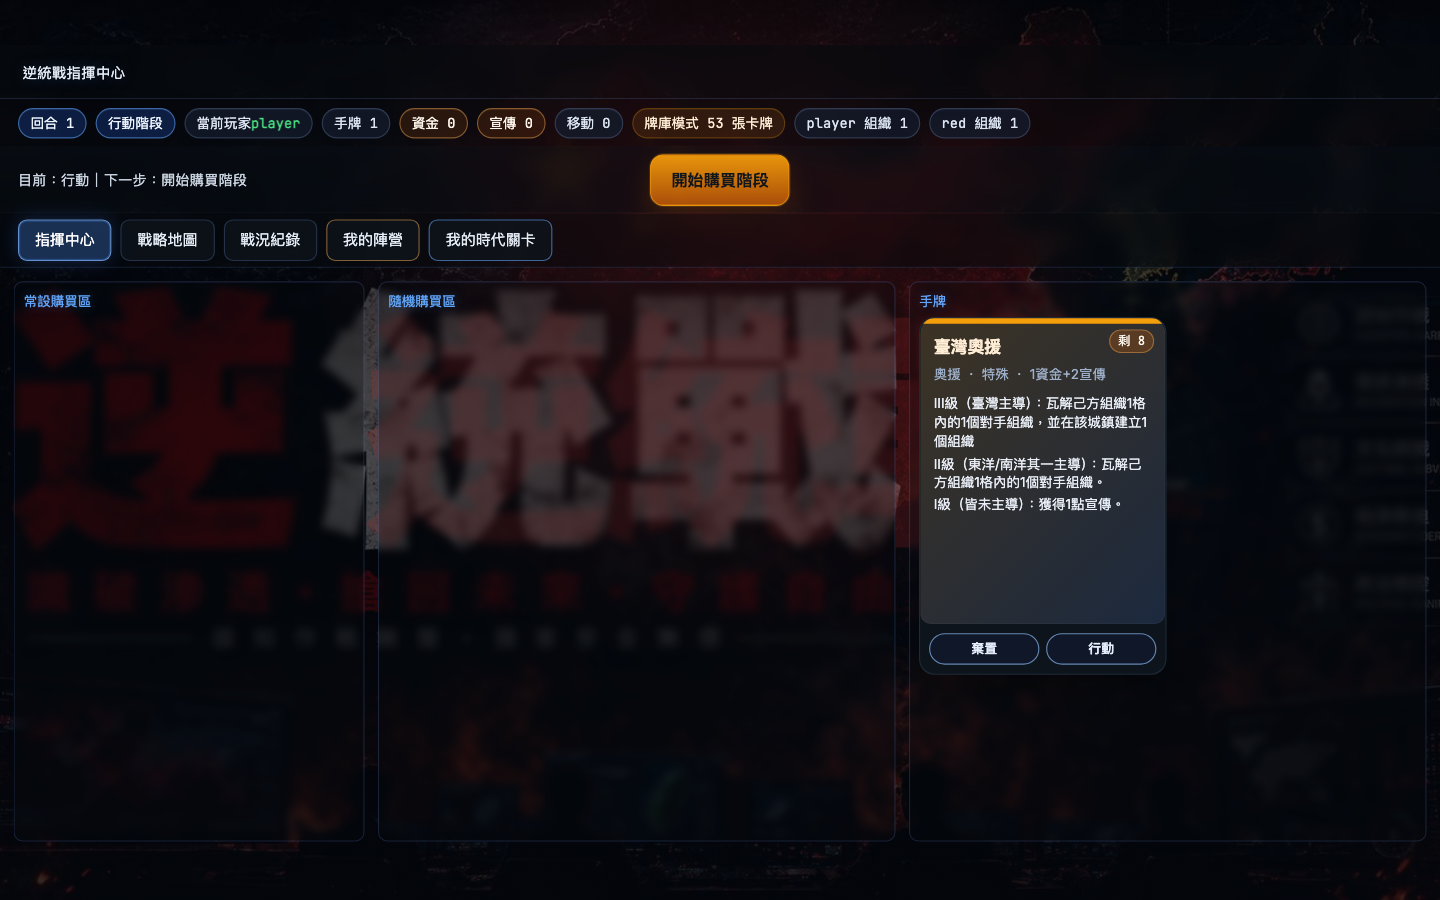
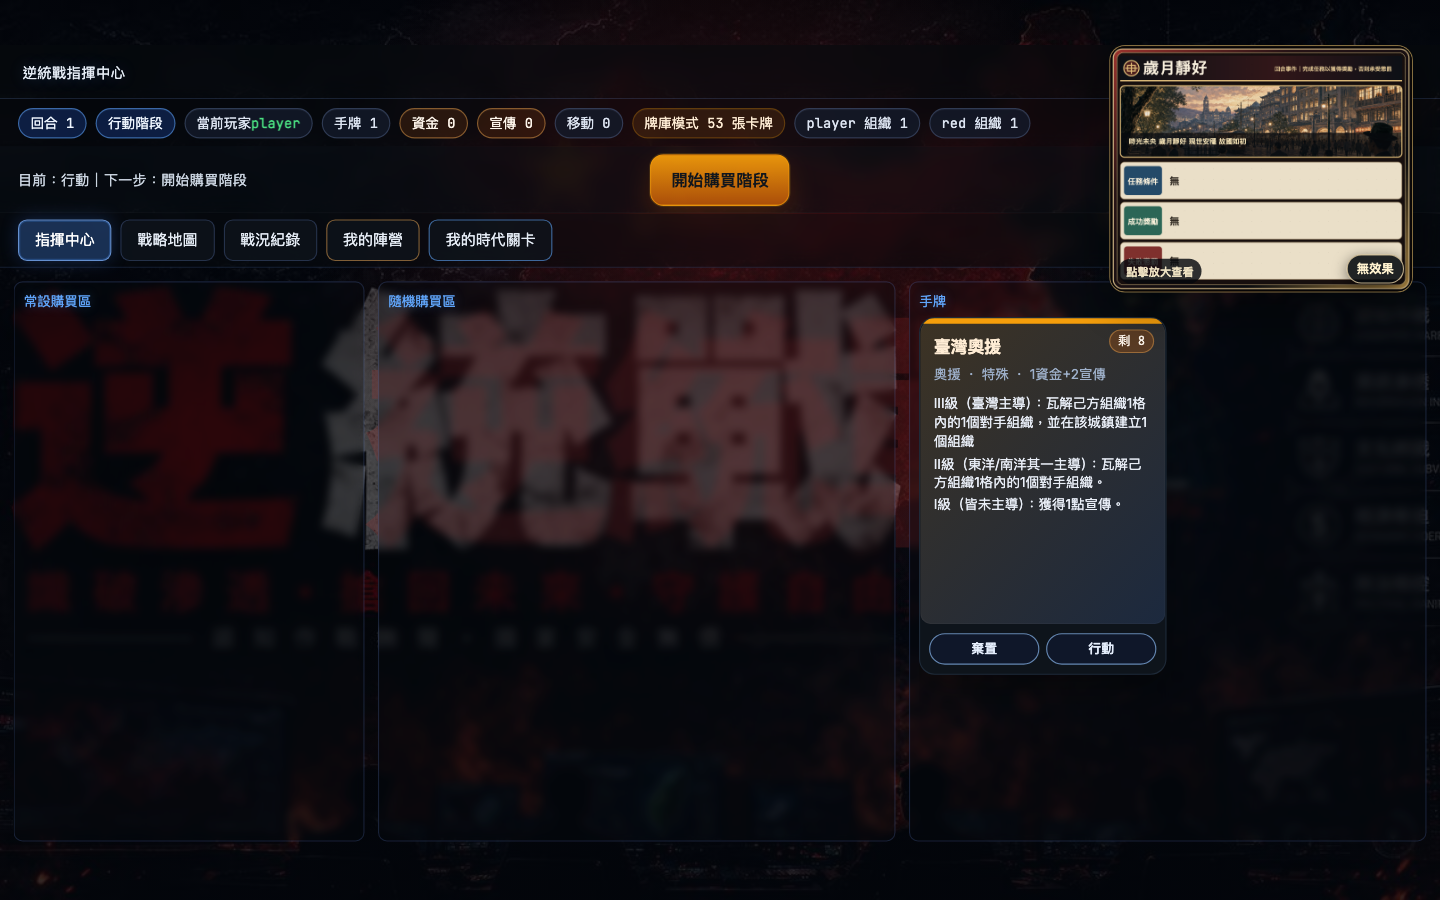
feat: display illustrated era stage cards

Changed region(s): [[0.75, 0.0311, 1.0, 0.3422]]

diff --git a/static/app.js b/static/app.js
@@ -1938,6 +1938,34 @@ function eventCardArtUrl(event) {
     : '';
 }
 
+const ERA_CARD_ART_NAMES = new Set([
+  '[香港]香港人被自殺',
+  '[蒙古]莫日根事件爆發',
+  '[藏國]藏國騷亂',
+  '[哈薩克]伊塔事件',
+  '[維吾爾]莎車大屠殺',
+  '[滿洲]滿洲地方派系凝聚',
+  '[反賊]公知世代的終結',
+  '[臺灣]綏靖派反對介入對岸',
+]);
+
+function eraCardArtUrl(stage) {
+  const name = String(stage?.name || '').trim();
+  return ERA_CARD_ART_NAMES.has(name)
+    ? `/static/card-art/era/${encodeURIComponent(name)}.png`
+    : '';
+}
+
+function eraCardArtMarkup(stage, fallbackMarkup = '') {
+  const artUrl = eraCardArtUrl(stage);
+  if (!artUrl) return fallbackMarkup;
+  return `
+    <div class="era-card-art-shell">
+      <img class="era-card-art-image" src="${artUrl}" alt="${escapeHtml(stage.name || '時代關卡')}完整卡面" decoding="async" onerror="this.parentElement.classList.add('era-card-art-load-failed');this.closest('.era-achievement-glass')?.classList.remove('era-card-art-active')">
+      <div class="era-card-art-fallback">${fallbackMarkup}</div>
+    </div>`;
+}
+
 function eventCardMarkup(event, expanded = false) {
   const progress = event.progress || {};
   const current = Number(progress.count || 0);
@@ -2054,6 +2082,8 @@ function minimizeEraAchievement() {
 
 function renderEraAchievement(state) {
   const overlay = document.getElementById('eraAchievementModal');
+  const glass = overlay?.querySelector('.era-achievement-glass');
+  const art = document.getElementById('eraAchievementArt');
   const title = document.getElementById('eraAchievementTitle');
   const cond = document.getElementById('eraAchievementCondition');
   const success = document.getElementById('eraAchievementSuccess');
@@ -2061,13 +2091,15 @@ function renderEraAchievement(state) {
   const duration = document.getElementById('eraAchievementDuration');
   const pin = document.getElementById('eraPinnedNotice');
   const minimizeBtn = document.getElementById('eraAchievementMinimizeBtn');
-  if (!overlay || !title || !cond || !success || !fail || !duration || !pin || !minimizeBtn) return;
+  if (!overlay || !glass || !art || !title || !cond || !success || !fail || !duration || !pin || !minimizeBtn) return;
 
   const info = state.era_notification || null;
   const activeDetails = state.active_era_details || [];
 
   if (!info) {
     overlay.style.display = 'none';
+    glass.classList.remove('era-card-art-active');
+    art.innerHTML = '';
     pin.style.display = 'none';
     pin.innerHTML = '';
     lastEraNotificationKey = null;
@@ -2075,6 +2107,9 @@ function renderEraAchievement(state) {
   }
 
   const key = `${info.id}:${info.remaining ?? 'perm'}`;
+  const artUrl = eraCardArtUrl(info);
+  glass.classList.toggle('era-card-art-active', Boolean(artUrl));
+  art.innerHTML = artUrl ? eraCardArtMarkup(info) : '';
   title.textContent = `${info.name}｜條件已達成`;
   cond.textContent = `達成條件：${info.trigger_text || '（暫缺）'}`;
   success.textContent = info.success_text || '（暫缺）';
@@ -2803,6 +2838,7 @@ function openMyEraStageModal() {
       ? '紅軍沒有個人時代關卡；其他陣營達成關卡後，效果仍會顯示於全桌的時代通知。'
       : '目前找不到這個陣營對應的時代關卡資料。';
     bodyEl.innerHTML = '';
+    bodyEl.classList.remove('era-card-art-active');
     overlay.style.display = 'flex';
     return;
   }
@@ -2817,12 +2853,14 @@ function openMyEraStageModal() {
       <div class="era-achievement-section-title">${label}</div>
       <div class="modal-body-text">${escapeHtml(text || '（暫無資料）')}</div>
     </section>`;
-  bodyEl.innerHTML = [
+  const fallbackMarkup = [
     section('觸發條件', stage.trigger_text),
     section('紅軍壓制', stage.success_text),
     section('革命反撲', stage.fail_text),
     section('效果期限', stage.duration_text),
   ].join('');
+  bodyEl.innerHTML = eraCardArtMarkup(stage, fallbackMarkup);
+  bodyEl.classList.toggle('era-card-art-active', Boolean(eraCardArtUrl(stage)));
   overlay.style.display = 'flex';
 }
 

diff --git a/static/style.css b/static/style.css
@@ -1711,7 +1711,56 @@ body {
 }
 
 .era-achievement-glass {
-  width: min(640px, calc(100vw - 32px));
+  width: min(758px, calc(100vw - 32px));
+  max-height: calc(100vh - 32px);
+  overflow-y: auto;
+}
+
+.era-achievement-art {
+  display: none;
+  margin-top: 8px;
+}
+
+.era-achievement-glass.era-card-art-active .era-achievement-art {
+  display: block;
+}
+
+.era-achievement-glass.era-card-art-active > #eraAchievementTitle,
+.era-achievement-glass.era-card-art-active > #eraAchievementCondition,
+.era-achievement-glass.era-card-art-active > #eraAchievementSuccess,
+.era-achievement-glass.era-card-art-active > #eraAchievementFail,
+.era-achievement-glass.era-card-art-active > #eraAchievementDuration,
+.era-achievement-glass.era-card-art-active > .era-achievement-section-title {
+  display: none;
+}
+
+.era-card-art-shell {
+  position: relative;
+  width: 100%;
+  overflow: hidden;
+  border: 1px solid rgba(231, 201, 137, 0.56);
+  border-radius: 16px;
+  background: #0b0908;
+  box-shadow: 0 18px 48px rgba(0, 0, 0, 0.44);
+}
+
+.era-card-art-image {
+  display: block;
+  width: 100%;
+  height: auto;
+}
+
+.era-card-art-fallback {
+  display: none;
+}
+
+.era-card-art-shell.era-card-art-load-failed .era-card-art-image {
+  display: none;
+}
+
+.era-card-art-shell.era-card-art-load-failed .era-card-art-fallback {
+  display: block;
+  padding: 10px;
 }
 
 .modal-overlay.choice-modal-map-context {
@@ -2576,8 +2625,11 @@ body {
 }
 
 .my-era-stage-glass {
-  width: min(620px, calc(100vw - 32px));
-  max-width: 620px;
+  box-sizing: border-box;
+  width: min(700px, calc(100vw - 32px));
+  max-width: 700px;
+  max-height: calc(100vh - 32px);
+  overflow-y: auto;
 }
 
 .my-era-stage-status {
@@ -2620,6 +2672,12 @@ body {
   overscroll-behavior: contain;
   padding-right: 6px;
   text-align: left;
+}
+
+.my-era-stage-body.era-card-art-active {
+  max-height: none;
+  overflow: visible;
+  padding-right: 0;
 }
 
 .my-era-stage-section {

diff --git a/static/index.html b/static/index.html
@@ -3,7 +3,7 @@
 <head>
   <meta charset="UTF-8" />
   <title>REDLINE // STRATEGIC COMMAND</title>
-  <link rel="stylesheet" href="/static/style.css?v=event-art-20260726" />
+  <link rel="stylesheet" href="/static/style.css?v=era-art-20260726" />
 </head>
 <body>
 <div id="stageViewport">
@@ -154,6 +154,7 @@
 <div id="eraAchievementModal" class="modal-overlay" style="display:none;">
   <div class="modal-glass era-achievement-glass">
     <div class="panel-title">時代關卡達成</div>
+    <div id="eraAchievementArt" class="era-achievement-art"></div>
     <div id="eraAchievementTitle" class="modal-title-text">[香港]香港人被自殺</div>
     <div id="eraAchievementCondition" class="modal-body-text"></div>
     <div class="era-achievement-section-title">紅軍壓制</div>
@@ -311,6 +312,6 @@
 </div>
 
 <script src="https://unpkg.com/leaflet@1.9.4/dist/leaflet.js"></script>
-<script src="/static/app.js?v=event-art-20260726"></script>
+<script src="/static/app.js?v=era-art-20260726"></script>
 </body>
 </html>

diff --git a/scripts/validate_my_era_stage_view.py b/scripts/validate_my_era_stage_view.py
@@ -13,6 +13,7 @@ OUT_MD = RECORD_DIR / "MY_ERA_STAGE_VIEW_VALIDATION.md"
 PENDING_SCREENSHOT = RECORD_DIR / "my_era_stage_pending.png"
 ACTIVE_SCREENSHOT = RECORD_DIR / "my_era_stage_active.png"
 POSITION_SCREENSHOT = RECORD_DIR / "my_era_stage_entry_position.png"
+ACHIEVEMENT_SCREENSHOT = RECORD_DIR / "era_stage_achievement_art.png"
 
 
 def post_json(path, payload=None):
@@ -49,6 +50,13 @@ def check(browser):
 
     def record(name, ok, detail=None):
         results.append({"name": name, "ok": bool(ok), "detail": detail or {}})
+
+    era_art_files = sorted((ROOT / "static/card-art/era").glob("*.png"))
+    record(
+        "all_eight_era_art_assets_are_installed",
+        len(era_art_files) == 8,
+        {"files": [path.name for path in era_art_files]},
+    )
 
     pending_setup = post_json(
         "/test/setup-support-card-play",
@@ -106,6 +114,7 @@ def check(browser):
     )
     button.click()
     pending_page.wait_for_timeout(200)
+    pending_page.wait_for_function("document.querySelector('#myEraStageModal .era-card-art-image')?.naturalWidth === 1350")
     pending_data = pending_page.evaluate("""() => ({
       modalVisible: document.getElementById('myEraStageModal')?.style.display === 'flex',
       title: document.getElementById('myEraStageTitle')?.textContent,
@@ -114,16 +123,21 @@ def check(browser):
       sections: [...document.querySelectorAll('#myEraStageBody .era-achievement-section-title')].map(el => el.textContent),
       texts: [...document.querySelectorAll('#myEraStageBody .modal-body-text')].map(el => el.textContent),
       imageCount: document.querySelectorAll('#myEraStageModal img').length,
+      image: (() => {
+        const image = document.querySelector('#myEraStageModal .era-card-art-image');
+        return image ? {alt: image.alt, width: image.naturalWidth, height: image.naturalHeight} : null;
+      })(),
     })""")
     record(
-        "pending_taiwan_stage_shows_complete_text_card",
+        "pending_taiwan_stage_shows_complete_art_card",
         pending_data["modalVisible"]
         and "[臺灣]綏靖派反對介入對岸" in (pending_data["title"] or "")
         and pending_data["status"] == "尚未達成"
         and bool(pending_data["summary"])
         and pending_data["sections"] == ["觸發條件", "紅軍壓制", "革命反撲", "效果期限"]
         and all(pending_data["texts"])
-        and pending_data["imageCount"] == 0,
+        and pending_data["imageCount"] == 1
+        and pending_data["image"] == {"alt": "[臺灣]綏靖派反對介入對岸完整卡面", "width": 1350, "height": 1100},
         pending_data,
     )
     pending_page.screenshot(path=str(PENDING_SCREENSHOT), full_page=True)
@@ -139,6 +153,7 @@ def check(browser):
     active_context, active_page = open_game(browser, active_setup)
     active_page.click("#myEraStageBtn")
     active_page.wait_for_timeout(200)
+    active_page.wait_for_function("document.querySelector('#myEraStageModal .era-card-art-image')?.naturalWidth === 1350")
     active_data = active_page.evaluate("""() => ({
       title: document.getElementById('myEraStageTitle')?.textContent,
       status: document.getElementById('myEraStageStatus')?.textContent,
@@ -146,6 +161,10 @@ def check(browser):
       stateId: window.lastGameState?.my_era_stage?.id,
       stateActive: window.lastGameState?.my_era_stage?.active,
       remaining: window.lastGameState?.my_era_stage?.remaining,
+      image: (() => {
+        const image = document.querySelector('#myEraStageModal .era-card-art-image');
+        return image ? {alt: image.alt, width: image.naturalWidth, height: image.naturalHeight} : null;
+      })(),
     })""")
     record(
         "active_mongolia_stage_shows_achieved_status_and_remaining_turns",
@@ -154,10 +173,31 @@ def check(browser):
         and active_data["activeClass"]
         and active_data["stateId"] == "mongolia"
         and active_data["stateActive"] is True
-        and active_data["remaining"] == 1,
+        and active_data["remaining"] == 1
+        and active_data["image"] == {"alt": "[蒙古]莫日根事件爆發完整卡面", "width": 1350, "height": 1100},
         active_data,
     )
     active_page.screenshot(path=str(ACTIVE_SCREENSHOT), full_page=True)
+    active_page.click("#closeMyEraStageModal")
+    active_page.evaluate("lastEraNotificationKey = null; renderEraAchievement(window.lastGameState)")
+    active_page.locator("#eraAchievementModal").wait_for(state="visible")
+    active_page.wait_for_function("document.querySelector('#eraAchievementArt img')?.naturalWidth === 1350")
+    achievement_data = active_page.evaluate("""() => {
+      const image = document.querySelector('#eraAchievementArt .era-card-art-image');
+      return {
+        activeClass: document.querySelector('.era-achievement-glass')?.classList.contains('era-card-art-active'),
+        image: image ? {alt: image.alt, width: image.naturalWidth, height: image.naturalHeight} : null,
+        minimizeVisible: document.getElementById('eraAchievementMinimizeBtn')?.offsetParent !== null,
+      };
+    }""")
+    record(
+        "achieved_era_notification_shows_complete_art_card",
+        achievement_data["activeClass"]
+        and achievement_data["image"] == {"alt": "[蒙古]莫日根事件爆發完整卡面", "width": 1350, "height": 1100}
+        and achievement_data["minimizeVisible"],
+        achievement_data,
+    )
+    active_page.screenshot(path=str(ACHIEVEMENT_SCREENSHOT), full_page=True)
     active_context.close()
 
     red_setup = post_json(
@@ -189,7 +229,7 @@ def check(browser):
             "failed": sum(1 for result in results if not result["ok"]),
         },
         "results": results,
-        "screenshots": [str(POSITION_SCREENSHOT), str(PENDING_SCREENSHOT), str(ACTIVE_SCREENSHOT)],
+        "screenshots": [str(POSITION_SCREENSHOT), str(PENDING_SCREENSHOT), str(ACTIVE_SCREENSHOT), str(ACHIEVEMENT_SCREENSHOT)],
         "base_url": BASE_URL,
     }
 

diff --git a/docs/records/event-cards/MY_ERA_STAGE_VIEW_VALIDATION.md b/docs/records/event-cards/MY_ERA_STAGE_VIEW_VALIDATION.md
@@ -2,15 +2,17 @@
 
 可重跑指令：`uv run --with playwright python scripts/validate_my_era_stage_view.py`
 
-- total: 7 / passed: 7 / failed: 0
+- total: 9 / passed: 9 / failed: 0
 - base URL: http://127.0.0.1:8000
-- screenshots: /Users/benmini/.openclaw/workspace/redline/docs/records/event-cards/my_era_stage_entry_position.png, /Users/benmini/.openclaw/workspace/redline/docs/records/event-cards/my_era_stage_pending.png, /Users/benmini/.openclaw/workspace/redline/docs/records/event-cards/my_era_stage_active.png
+- screenshots: /Users/benmini/.openclaw/workspace/redline/docs/records/event-cards/my_era_stage_entry_position.png, /Users/benmini/.openclaw/workspace/redline/docs/records/event-cards/my_era_stage_pending.png, /Users/benmini/.openclaw/workspace/redline/docs/records/event-cards/my_era_stage_active.png, /Users/benmini/.openclaw/workspace/redline/docs/records/event-cards/era_stage_achievement_art.png
 
 ## Results
+- ✅ `all_eight_era_art_assets_are_installed` — {"files": ["[反賊]公知世代的終結.png", "[哈薩克]伊塔事件.png", "[滿洲]滿洲地方派系凝聚.png", "[維吾爾]莎車大屠殺.png", "[臺灣]綏靖派反對介入對岸.png", "[蒙古]莫日根事件爆發.png", "[藏國]藏國騷亂.png", "[香港]香港人被自殺.png"]}
 - ✅ `my_era_stage_button_visible_in_game_tabs` — {"visible": true, "text": "我的時代關卡"}
-- ✅ `personal_info_tabs_sit_next_to_log_without_event_card_overlap` — {"logRight": 317.232421875, "factionLeft": 326.232421875, "factionRight": 419.9765625, "eraLeft": 428.9765625, "eraRight": 552.708984375, "eventLeft": 1075.5, "gapAfterLog": 9, "gapBetweenPersonalTabs": 9, "noEventOverlap": true}
+- ✅ `personal_info_tabs_sit_next_to_log_without_event_card_overlap` — {"logRight": 317.232421875, "factionLeft": 326.232421875, "factionRight": 419.9765625, "eraLeft": 428.9765625, "eraRight": 552.708984375, "eventLeft": 1109.25, "gapAfterLog": 9, "gapBetweenPersonalTabs": 9, "noEventOverlap": true}
 - ✅ `adjacent_my_faction_entry_still_works` — {"button_visible": true, "modal_visible": true}
-- ✅ `pending_taiwan_stage_shows_complete_text_card` — {"modalVisible": true, "title": "[臺灣]綏靖派反對介入對岸", "status": "尚未達成", "summary": "臺灣對共和國滲透日深 紅軍策動臺灣綏靖派阻礙反共工作", "sections": ["觸發條件", "紅軍壓制", "革命反撲", "效果期限"], "texts": ["[臺灣重建敵後工作]臺灣在牆內擁有至少7個有效組織", "[鼓吹停止挑釁紅軍]將3張內鬥放進臺灣棄牌堆", "[打擊國內綏靖主義]每當臺灣在臺灣城鎮建立至少1個組織時，獲得1點宣傳。持續2回合。", "持續 2 回合"], "imageCount": 0}
+- ✅ `pending_taiwan_stage_shows_complete_art_card` — {"modalVisible": true, "title": "[臺灣]綏靖派反對介入對岸", "status": "尚未達成", "summary": "臺灣對共和國滲透日深 紅軍策動臺灣綏靖派阻礙反共工作", "sections": ["觸發條件", "紅軍壓制", "革命反撲", "效果期限"], "texts": ["[臺灣重建敵後工作]臺灣在牆內擁有至少7個有效組織", "[鼓吹停止挑釁紅軍]將3張內鬥放進臺灣棄牌堆", "[打擊國內綏靖主義]每當臺灣在臺灣城鎮建立至少1個組織時，獲得1點宣傳。持續2回合。", "持續 2 回合"], "imageCount": 1, "image": {"alt": "[臺灣]綏靖派反對介入對岸完整卡面", "width": 1350, "height": 1100}}
 - ✅ `close_button_hides_my_era_stage_modal` — {"display": "none"}
-- ✅ `active_mongolia_stage_shows_achieved_status_and_remaining_turns` — {"title": "[蒙古]莫日根事件爆發", "status": "條件已達成｜剩餘 1 回合", "activeClass": true, "stateId": "mongolia", "stateActive": true, "remaining": 1}
+- ✅ `active_mongolia_stage_shows_achieved_status_and_remaining_turns` — {"title": "[蒙古]莫日根事件爆發", "status": "條件已達成｜剩餘 1 回合", "activeClass": true, "stateId": "mongolia", "stateActive": true, "remaining": 1, "image": {"alt": "[蒙古]莫日根事件爆發完整卡面", "width": 1350, "height": 1100}}
+- ✅ `achieved_era_notification_shows_complete_art_card` — {"activeClass": true, "image": {"alt": "[蒙古]莫日根事件爆發完整卡面", "width": 1350, "height": 1100}, "minimizeVisible": true}
 - ✅ `red_army_gets_clear_no_personal_stage_message` — {"title": "無個人時代關卡", "status": "此陣營沒有專屬時代關卡", "summary": "紅軍沒有個人時代關卡；其他陣營達成關卡後，效果仍會顯示於全桌的時代通知。", "projected": null}
